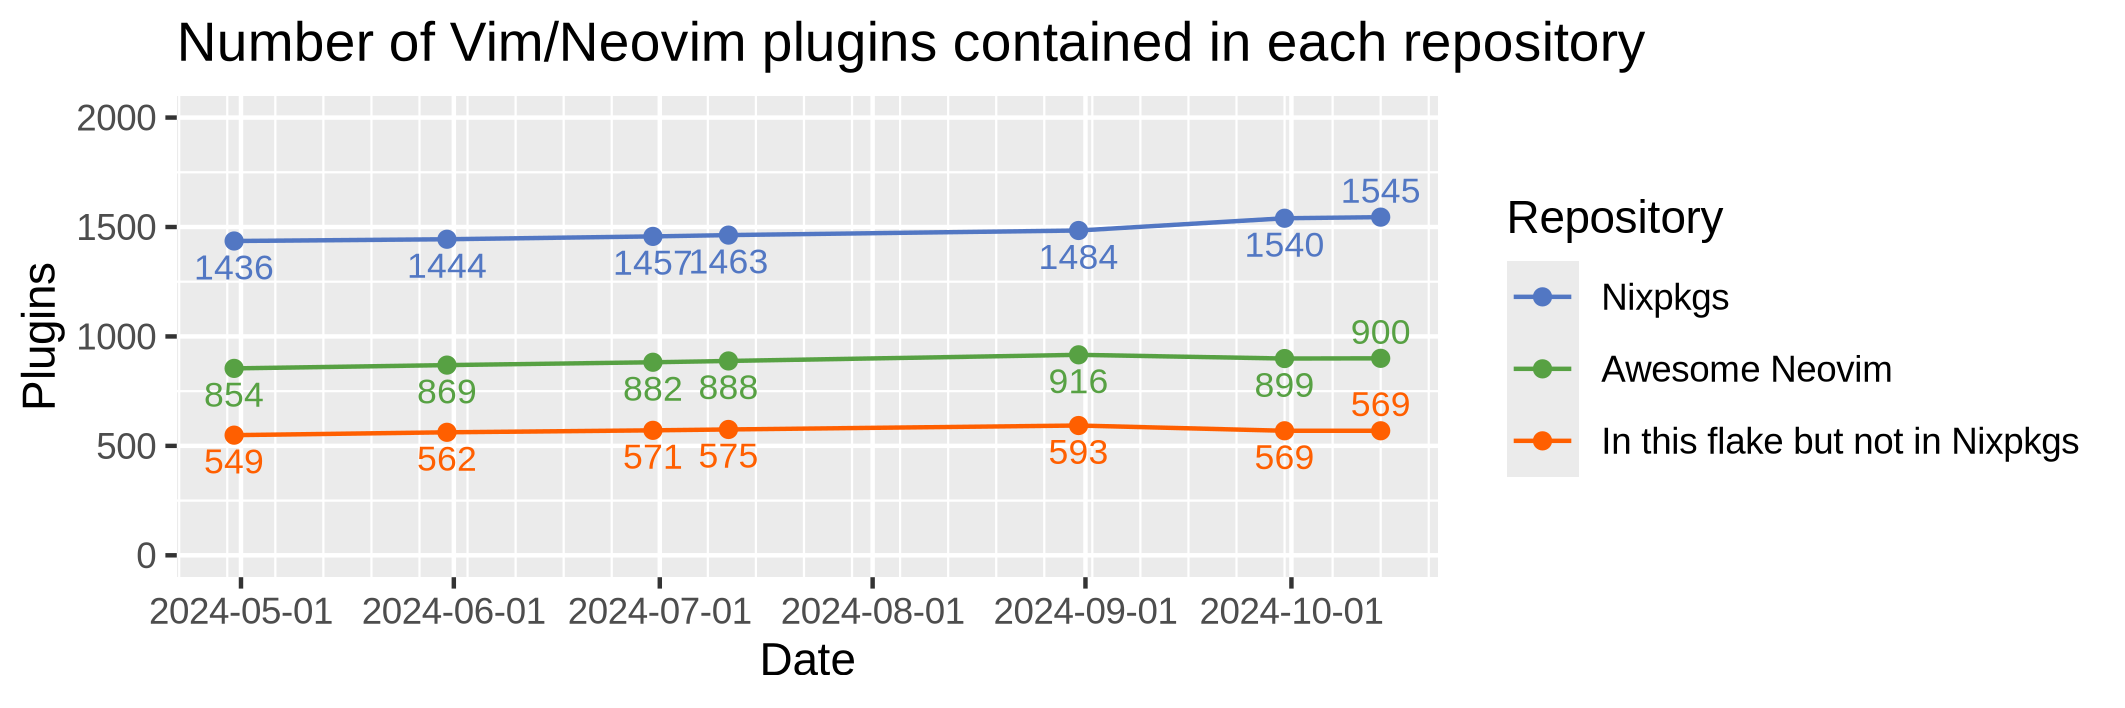
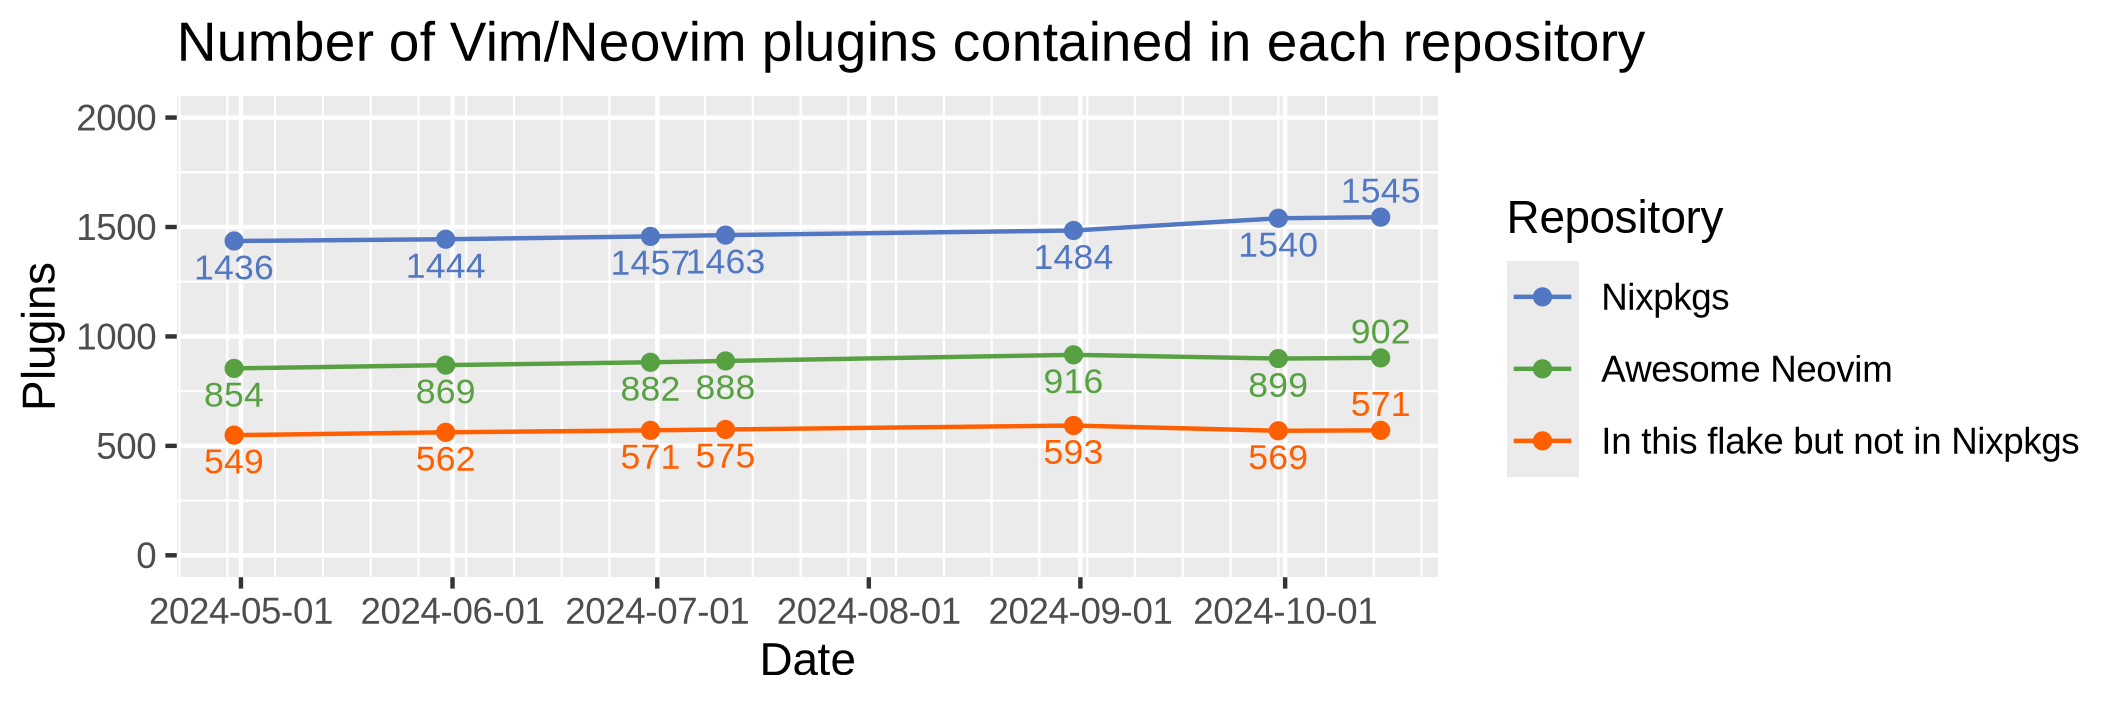
auto: update vim plugins

diff --git a/README.md b/README.md
@@ -8,7 +8,7 @@ Nix flake of Awesome Neovim plugins.
 
 [b1]: https://img.shields.io/github/actions/workflow/status/m15a/flake-awesome-neovim-plugins/check.yml?style=flat-square&logo=github&label=CI
 [b2]: https://github.com/m15a/flake-awesome-neovim-plugins/actions/workflows/check.yml
-[b3]: https://img.shields.io/badge/Awesome_Neovim_plugins-900-57A143?style=flat-square
+[b3]: https://img.shields.io/badge/Awesome_Neovim_plugins-902-57A143?style=flat-square
 [b4]: https://img.shields.io/endpoint?url=https://flakehub.com/f/m15a/flake-awesome-neovim-plugins/badge&style=flat-square
 [b5]: https://flakehub.com/flake/m15a/flake-awesome-neovim-plugins
 
